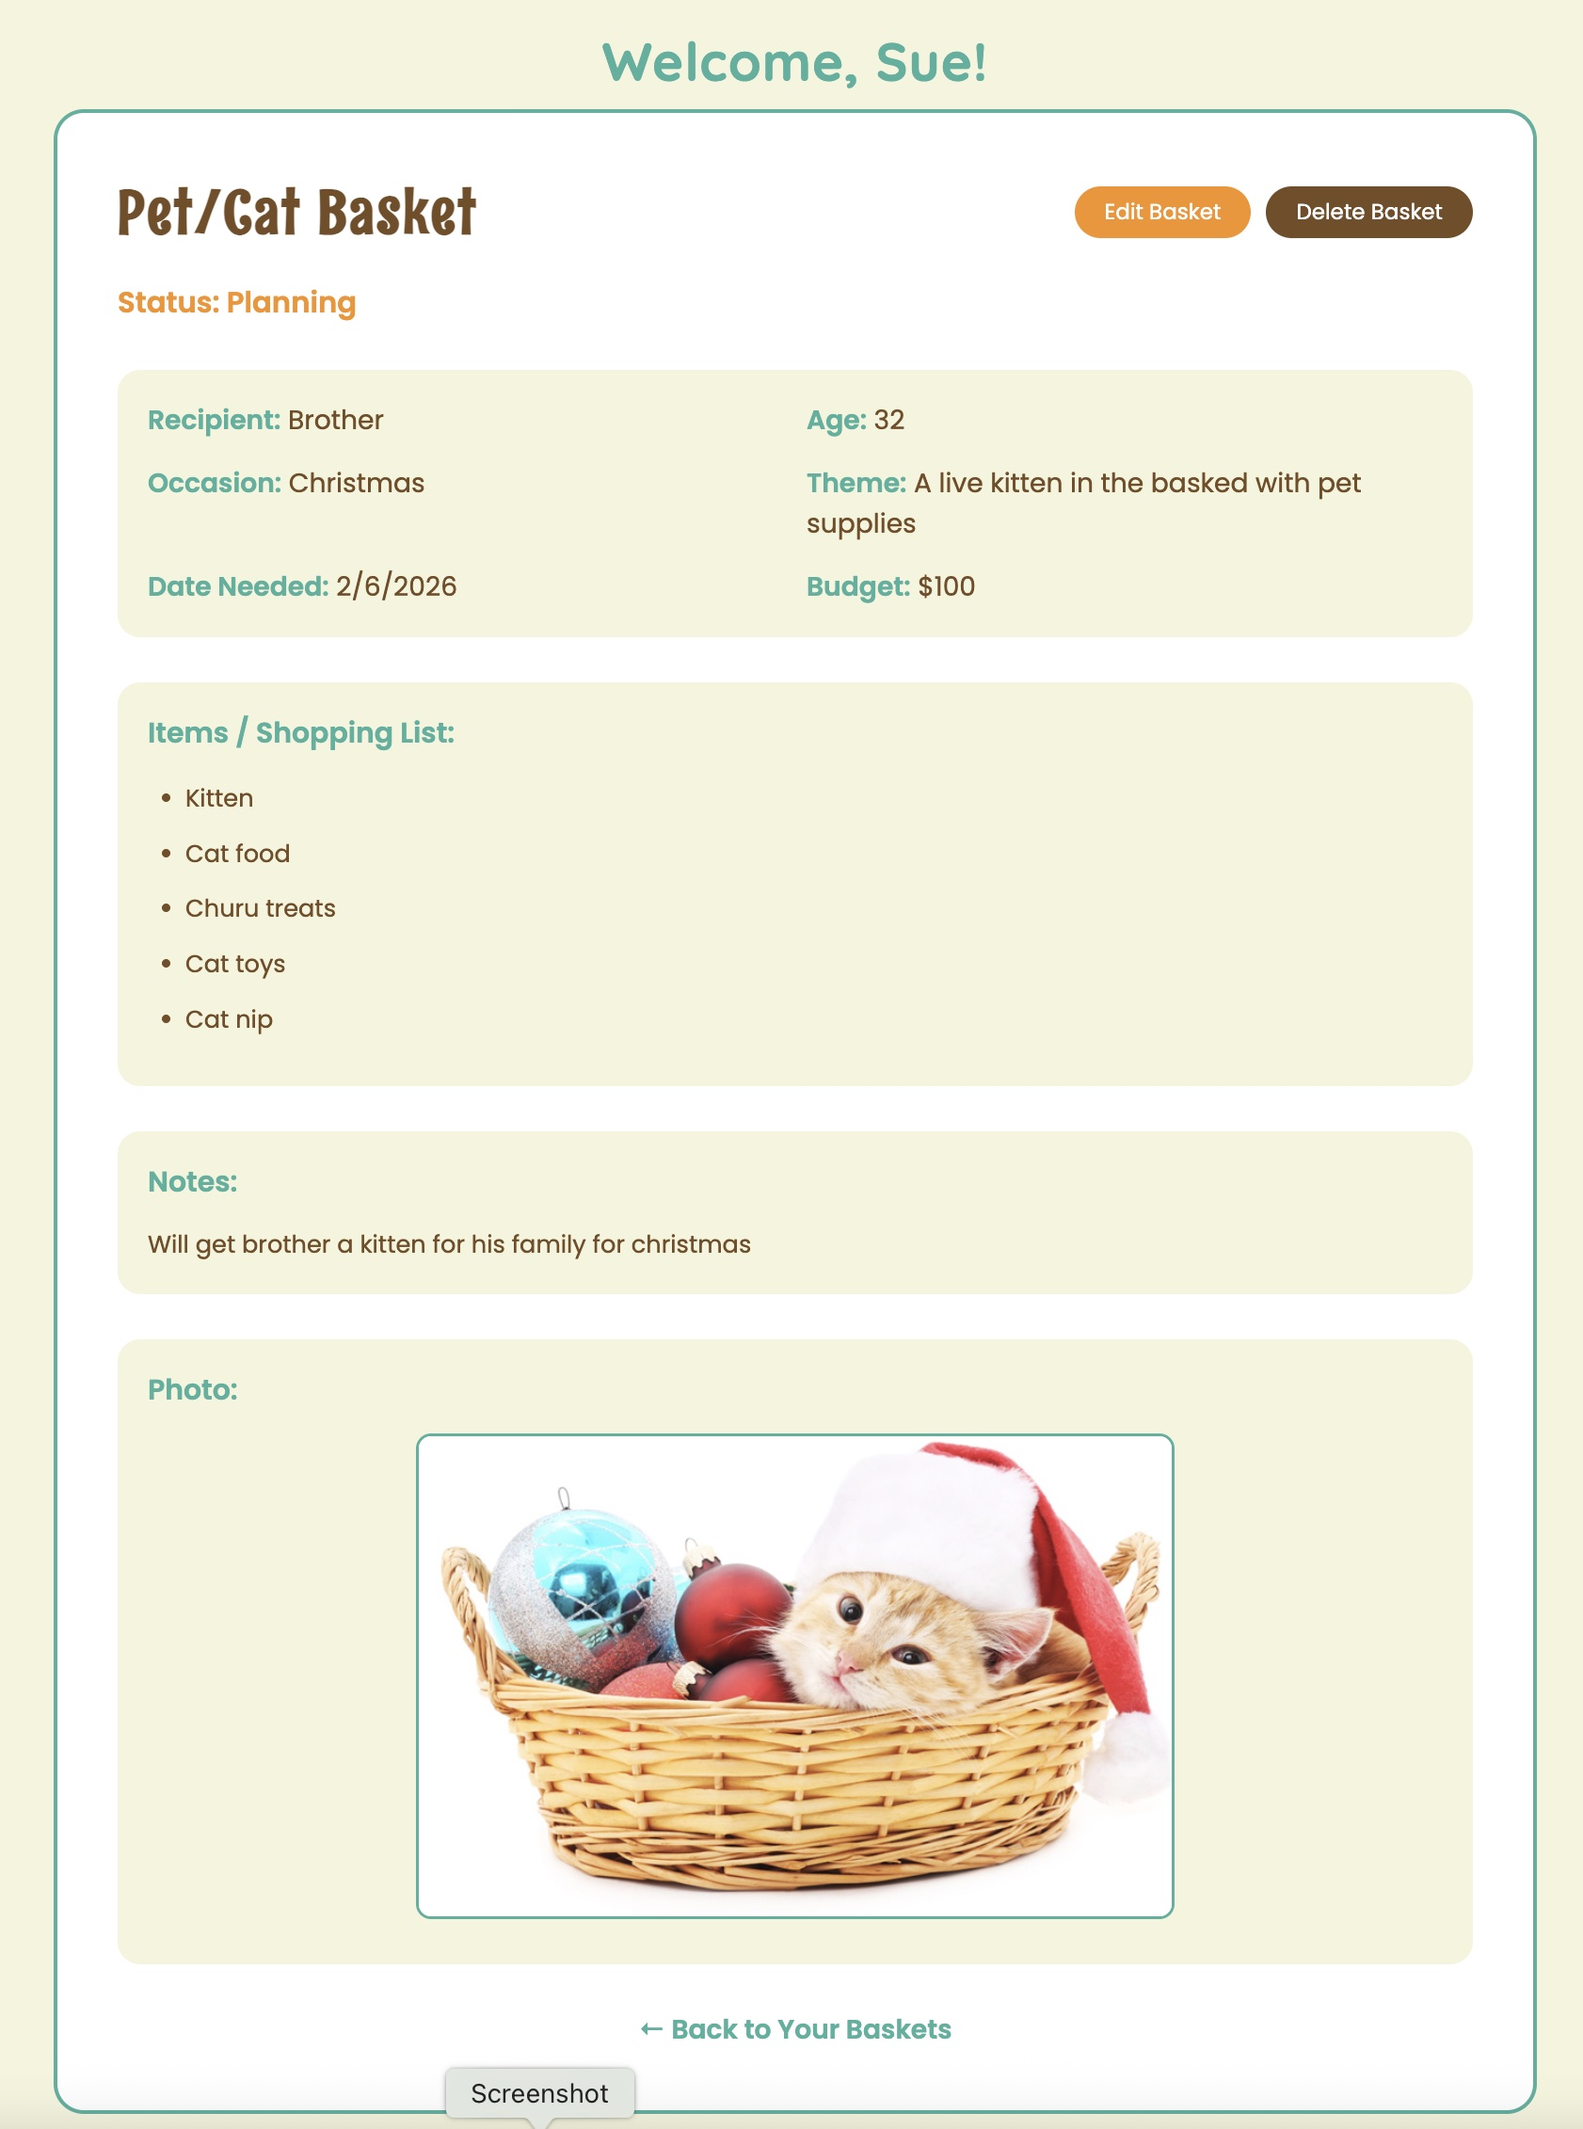
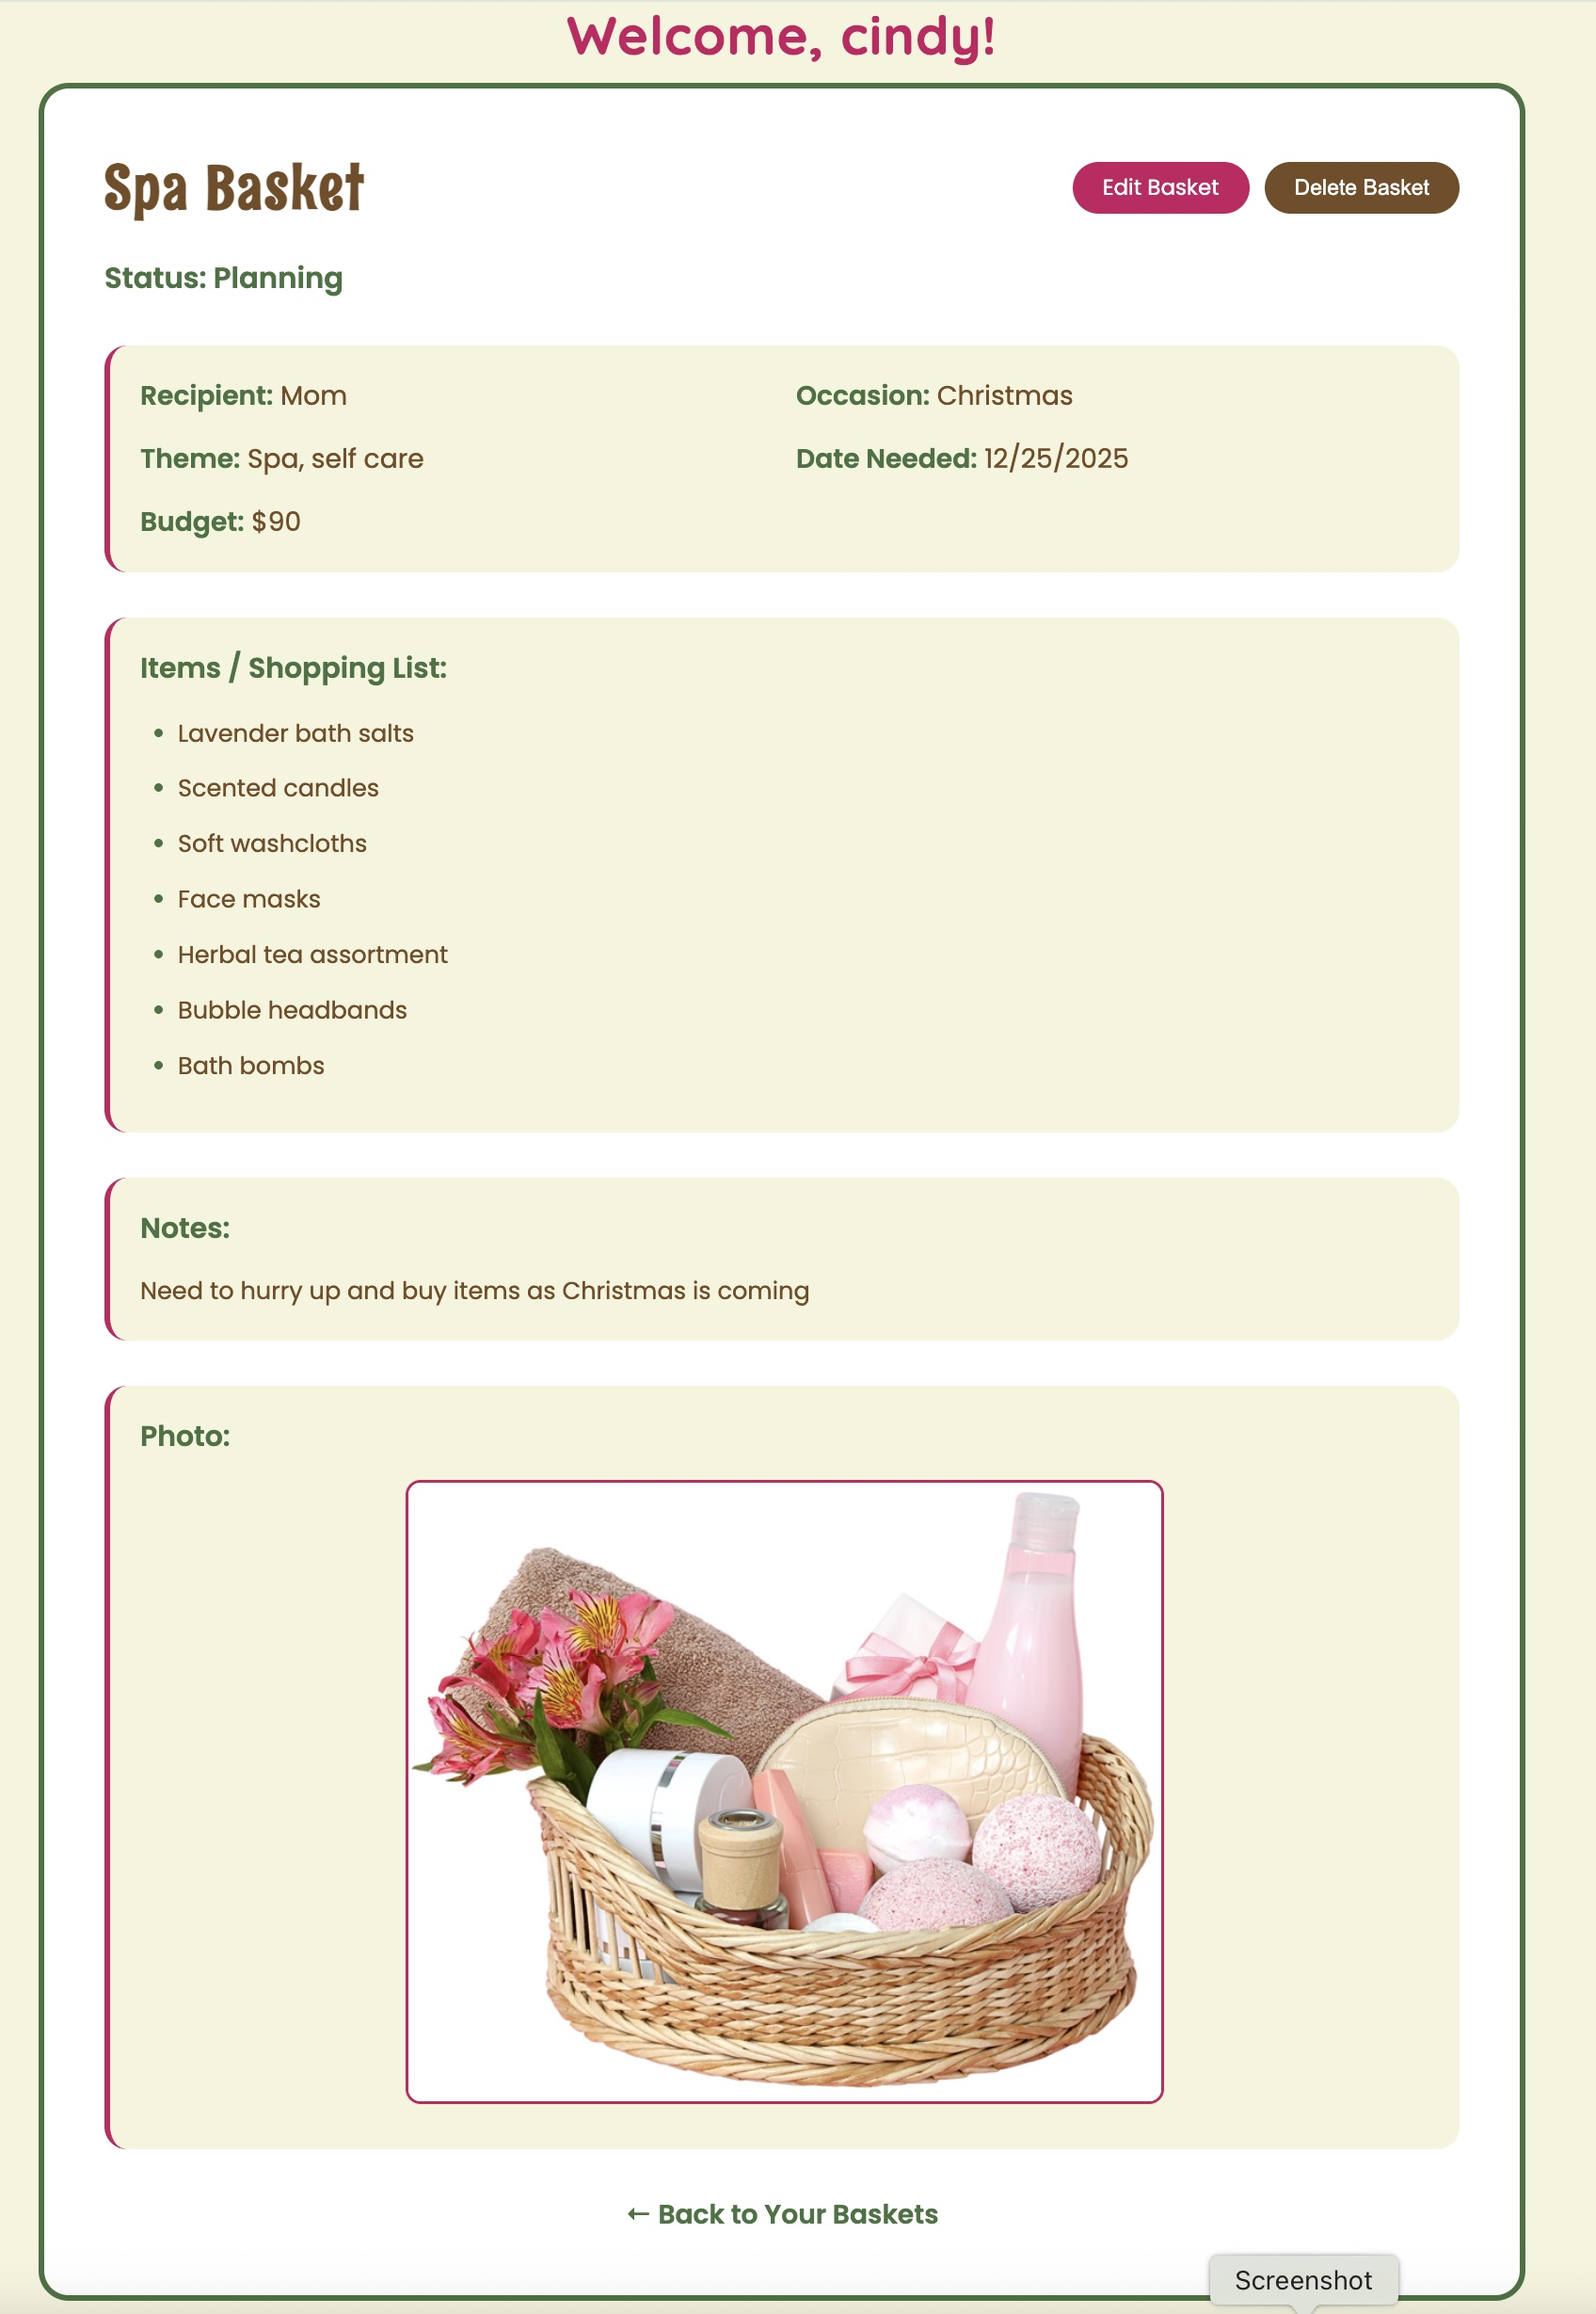
update read me and adjusted styling

diff --git a/public/stylesheets/style.css b/public/stylesheets/style.css
@@ -41,7 +41,7 @@ h2 {
   max-width: 45%;
   height: auto;
   border-radius: 15px;
-  border: 3px solid #cb1061;
+  border: 3px solid #42733f;
 }
 
 .landing-text {
@@ -68,8 +68,12 @@ h2 {
 }
 
 .signin-prompt a {
-  color: #cb1061;
+  color: #42733f;
   text-decoration: underline;
+}
+
+.signin-prompt a:hover {
+  color: #cb1061;
 }
 
 /* FORMS */
@@ -82,7 +86,7 @@ form {
   background-color: white;
   padding: 30px;
   border-radius: 20px;
-  border: 3px solid #cb1061;
+  border: 4px solid #42733f;
   margin: 0 auto;
 }
 
@@ -94,6 +98,8 @@ form h1 {
 
 form label {
   margin-top: 15px;
+  color: #754c24;
+  font-weight: 600;
 }
 
 form label:first-of-type {
@@ -103,10 +109,18 @@ form label:first-of-type {
 input,
 textarea,
 select {
-  border: 2px solid #cb1061;
+  border: 2px solid #42733f;
   padding: 10px;
   border-radius: 10px;
   font-family: 'Poppins', sans-serif;
+}
+
+input:focus,
+textarea:focus,
+select:focus {
+  outline: none;
+  border-color: #cb1061;
+  box-shadow: 0 0 0 3px rgba(66, 115, 63, 0.1);
 }
 
 .form-buttons {
@@ -130,7 +144,7 @@ select {
 }
 
 .form-buttons button:hover {
-  background-color: #a30d4f;
+  background-color: #42733f;
 }
 
 .form-buttons .cancel-btn {
@@ -148,7 +162,7 @@ select {
 }
 
 .form-buttons .cancel-btn:hover {
-  background-color: #355f33;
+  background-color: #2d5429;
 }
 
 /* FORM PAGES LAYOUT */
@@ -190,7 +204,7 @@ select {
 
 .signin-container button:hover,
 .signup-container button:hover {
-  background-color: #a30d4f;
+  background-color: #42733f;
 }
 
 /* BASKETS LIST */
@@ -227,7 +241,7 @@ select {
 }
 
 .add-basket-link:hover {
-  background-color: #a30d4f;
+  background-color: #42733f;
 }
 
 .shopping-list-link {
@@ -235,7 +249,7 @@ select {
 }
 
 .shopping-list-link:hover {
-  background-color: #cb1061;
+  background-color: #2d5429;
 }
 
 .baskets-container {
@@ -243,7 +257,7 @@ select {
   margin: 20px auto;
   padding: 30px;
   background-color: white;
-  border: 3px solid #cb1061;
+  border: 4px solid #42733f;
   border-radius: 20px;
 }
 
@@ -274,12 +288,16 @@ select {
   color: #754c24;
 }
 
+.basket-info strong {
+  color: #42733f;
+}
+
 .basket-thumbnail {
   width: 80px;
   height: 80px;
   object-fit: cover;
   border-radius: 10px;
-  border: 2px solid #cb1061;
+  border: 2px solid #42733f;
   flex-shrink: 0;
   margin-right: 20px;
 }
@@ -318,7 +336,7 @@ select {
 }
 
 .view-btn:hover {
-  background-color: #cb1061;
+  background-color: #2d5429;
 }
 
 .edit-btn {
@@ -327,7 +345,7 @@ select {
 }
 
 .edit-btn:hover {
-  background-color: #a30d4f;
+  background-color: #42733f;
 }
 
 .delete-btn {
@@ -336,7 +354,7 @@ select {
 }
 
 .delete-btn:hover {
-  background-color: #cb1061;
+  background-color: #42733f;
 }
 
 /* SHOW PAGE */
@@ -351,7 +369,7 @@ select {
   background-color: white;
   padding: 40px;
   border-radius: 20px;
-  border: 3px solid #cb1061;
+  border: 4px solid #42733f;
 }
 
 .show-container h1 {
@@ -395,7 +413,7 @@ select {
 
 .basket-status {
   font-size: 1.2em;
-  color: #cb1061;
+  color: #42733f;
   font-weight: 600;
   margin-bottom: 30px;
 }
@@ -408,6 +426,7 @@ select {
   padding: 20px;
   background-color: #f5f5dc;
   border-radius: 15px;
+  border-left: 4px solid #cb1061;
 }
 
 .detail-item {
@@ -416,7 +435,7 @@ select {
 }
 
 .detail-item strong {
-  color: #cb1061;
+  color: #42733f;
 }
 
 .basket-section {
@@ -424,10 +443,11 @@ select {
   padding: 20px;
   background-color: #f5f5dc;
   border-radius: 15px;
+  border-left: 4px solid #cb1061;
 }
 
 .basket-section h3 {
-  color: #cb1061;
+  color: #42733f;
   margin-top: 0;
   margin-bottom: 15px;
 }
@@ -460,20 +480,24 @@ select {
   margin-bottom: 8px;
 }
 
+.shopping-list li::marker {
+  color: #42733f;
+}
+
 .back-link {
   margin-top: 30px;
   text-align: center;
 }
 
 .back-link a {
-  color: #cb1061;
+  color: #42733f;
   text-decoration: none;
   font-weight: 600;
   font-size: 1.1em;
 }
 
 .back-link a:hover {
-  color: #a30d4f;
+  color: #cb1061;
 }
 
 /* SHOPPING LIST PAGE */
@@ -494,14 +518,14 @@ select {
 }
 
 .shopping-list-master strong {
-  color: #754c24;
+  color: #42733f;
   font-size: 1.1em;
 }
 
 .item-info {
   display: block;
   font-size: 0.9em;
-  color: #cb1061;
+  color: #42733f;
   margin-top: 5px;
 }
 
